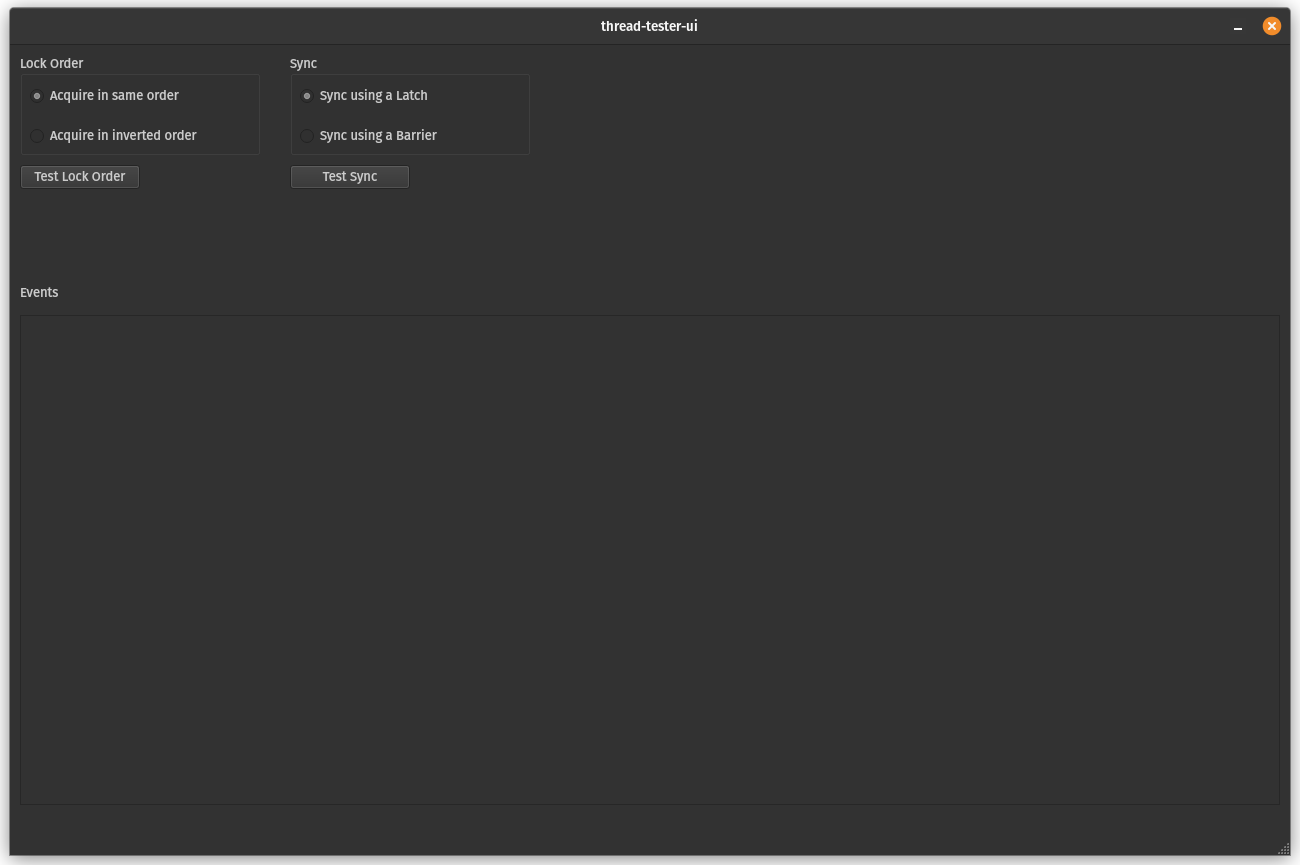
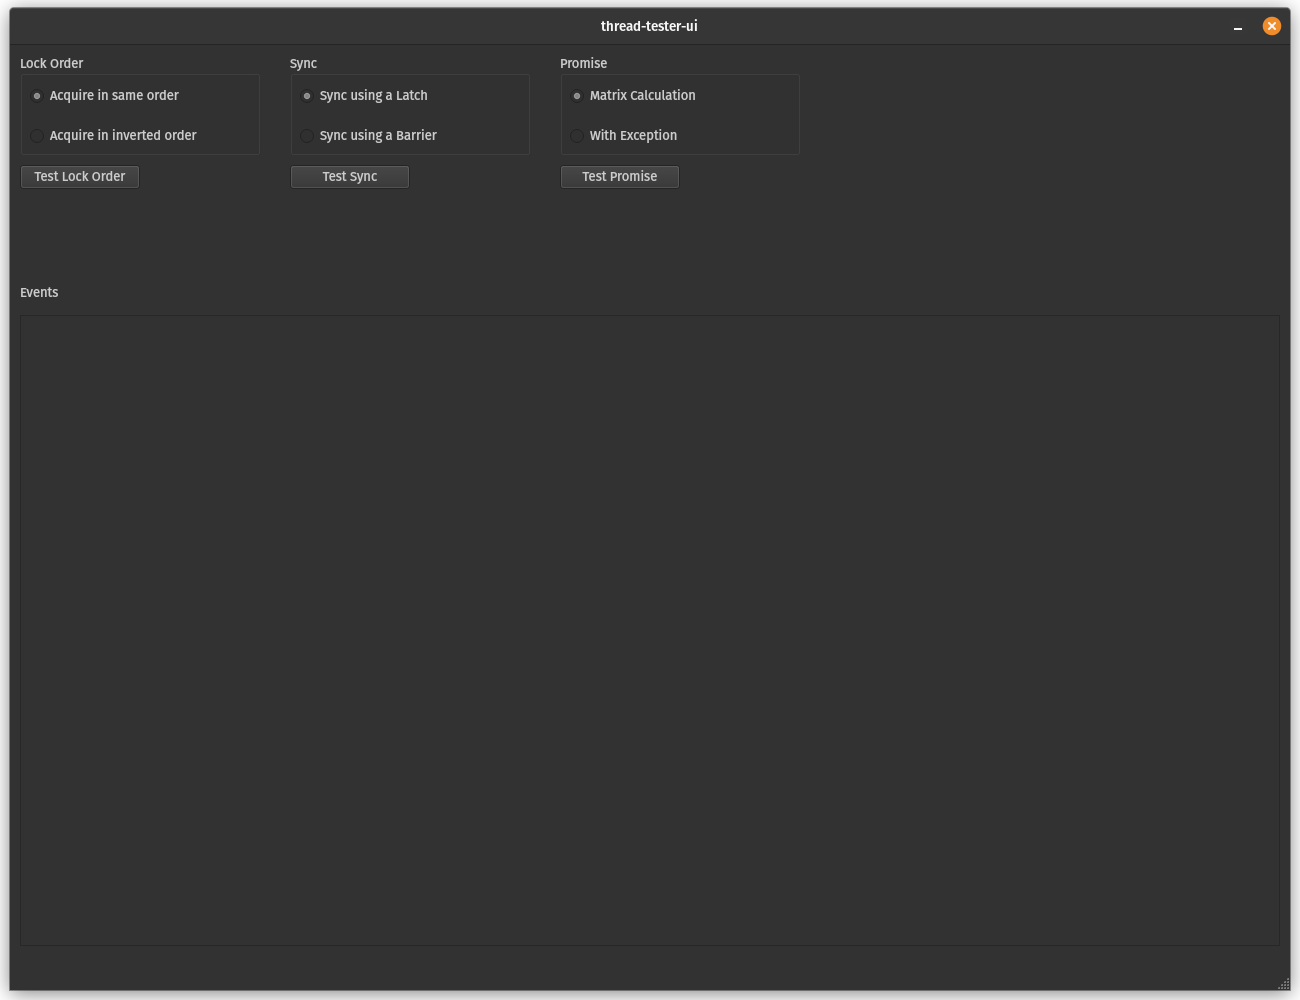
hooked in other thread engine, the one for promises

diff --git a/mainwindow.cpp b/mainwindow.cpp
@@ -19,16 +19,22 @@ MainWindow::MainWindow(QWidget *parent)
     event_display.set_display(ui->textBrowser_events);
 
     // Lock Order group
-    ui->lockOrder_buttonGroup->setId(ui->radioButton_lockOrderSame, TEST_LOCK_ORDER_SAME);
-    ui->lockOrder_buttonGroup->setId(ui->radioButton_lockOrderInverted, TEST_LOCK_ORDER_INVERTED);
+    ui->buttonGroup_lockOrder->setId(ui->radioButton_lockOrderSame, TEST_LOCK_ORDER_SAME);
+    ui->buttonGroup_lockOrder->setId(ui->radioButton_lockOrderInverted, TEST_LOCK_ORDER_INVERTED);
     ui->radioButton_lockOrderSame->setChecked(true);
     connect(ui->lockOrder_pushButton, &QPushButton::released, this, &MainWindow::handleButton_testLockOrder);
 
-    // Lock Order sync
-    ui->sync_buttonGroup->setId(ui->radioButton_syncLatch, TEST_SYNC_LATCH);
-    ui->sync_buttonGroup->setId(ui->radioButton_syncBarrier, TEST_SYNC_BARRIER);
+    // Sync group
+    ui->buttonGroup_sync->setId(ui->radioButton_syncLatch, TEST_SYNC_LATCH);
+    ui->buttonGroup_sync->setId(ui->radioButton_syncBarrier, TEST_SYNC_BARRIER);
     ui->radioButton_syncLatch->setChecked(true);
     connect(ui->sync_pushButton, &QPushButton::released, this, &MainWindow::handleButton_testSync);
+
+    // Promise group
+    ui->buttonGroup_promise->setId(ui->radioButton_matrixCalc, TEST_PROMISE_MATRIX_CALC);
+    ui->buttonGroup_promise->setId(ui->radioButton_withException, TEST_PROMISE_WITH_EXCEPTION);
+    ui->radioButton_matrixCalc->setChecked(true);
+    connect(ui->promise_pushButton, &QPushButton::released, this, &MainWindow::handleButton_testPromise);
 }
 
 MainWindow::~MainWindow()
@@ -39,12 +45,17 @@ MainWindow::~MainWindow()
 // Button handlers
 void MainWindow::handleButton_testLockOrder()
 {
-    runTest(ui->lockOrder_groupBox->title(), ui->lockOrder_buttonGroup->checkedId(), ui->lockOrder_buttonGroup->checkedButton()->text());
+    runTest(ui->lockOrder_groupBox->title(), ui->buttonGroup_lockOrder->checkedId(), ui->buttonGroup_lockOrder->checkedButton()->text());
 }
 
 void MainWindow::handleButton_testSync()
 {
-    runTest(ui->sync_groupBox->title(), ui->sync_buttonGroup->checkedId(), ui->sync_buttonGroup->checkedButton()->text());
+    runTest(ui->sync_groupBox->title(), ui->buttonGroup_sync->checkedId(), ui->buttonGroup_sync->checkedButton()->text());
+}
+
+void MainWindow::handleButton_testPromise()
+{
+    runTest(ui->promise_groupBox->title(), ui->buttonGroup_promise->checkedId(), ui->buttonGroup_promise->checkedButton()->text());
 }
 
 // Tests
@@ -88,7 +99,16 @@ void MainWindow::doTest()
     QProcess process;
 
     // Set the command to execute and arguments
-    QString program = "../thread-tester-engine/build/thread-tester-engine";
+    QString program = "../thread-tester-ui-engines/";
+    if (test_id > TEST_PROMISE_MATRIX_CALC)
+    {
+        program += "thread-tester-engine";
+    }
+    else
+    {
+        program += "thread-tester-engine-promises";
+    }
+
     QString test_id_str;
     test_id_str.setNum(test_id);
     QStringList arguments = { test_id_str };

diff --git a/test_ids.h b/test_ids.h
@@ -6,4 +6,7 @@ const int TEST_LOCK_ORDER_INVERTED = 99;
 const int TEST_SYNC_LATCH = 98;
 const int TEST_SYNC_BARRIER = 97;
 
+const int TEST_PROMISE_MATRIX_CALC = 50;
+const int TEST_PROMISE_WITH_EXCEPTION = 49;
+
 #endif // TEST_IDS_H

diff --git a/mainwindow.h b/mainwindow.h
@@ -23,6 +23,7 @@ public:
     // Button handlers
     void handleButton_testLockOrder();
     void handleButton_testSync();
+    void handleButton_testPromise();
 
     // Tests
     void runTest(QString group, int id, QString name);
